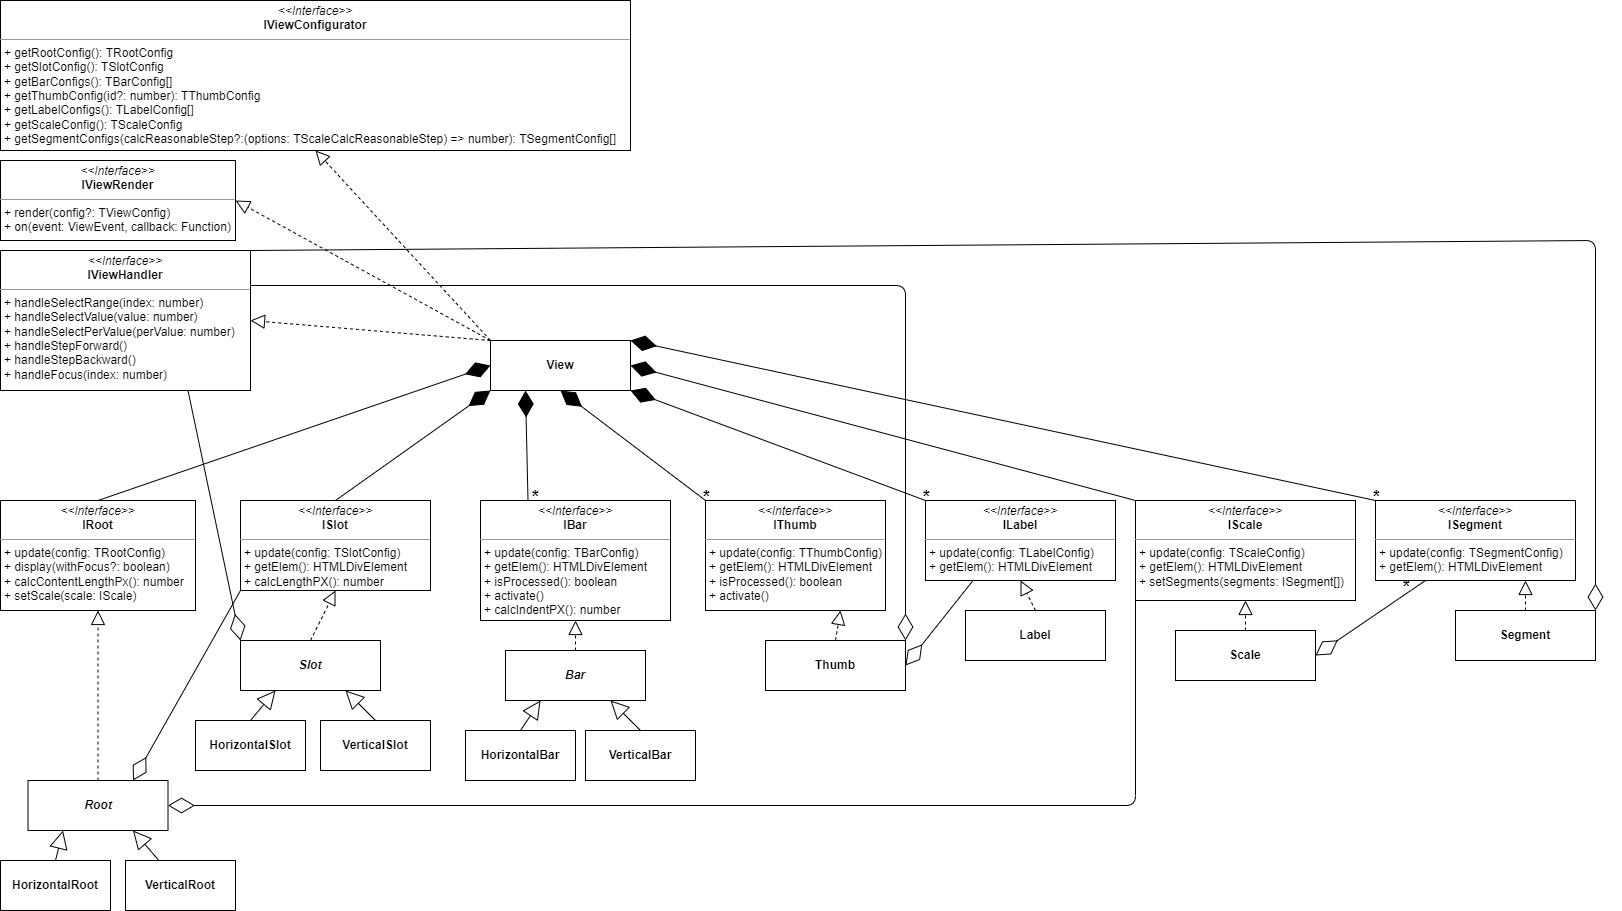
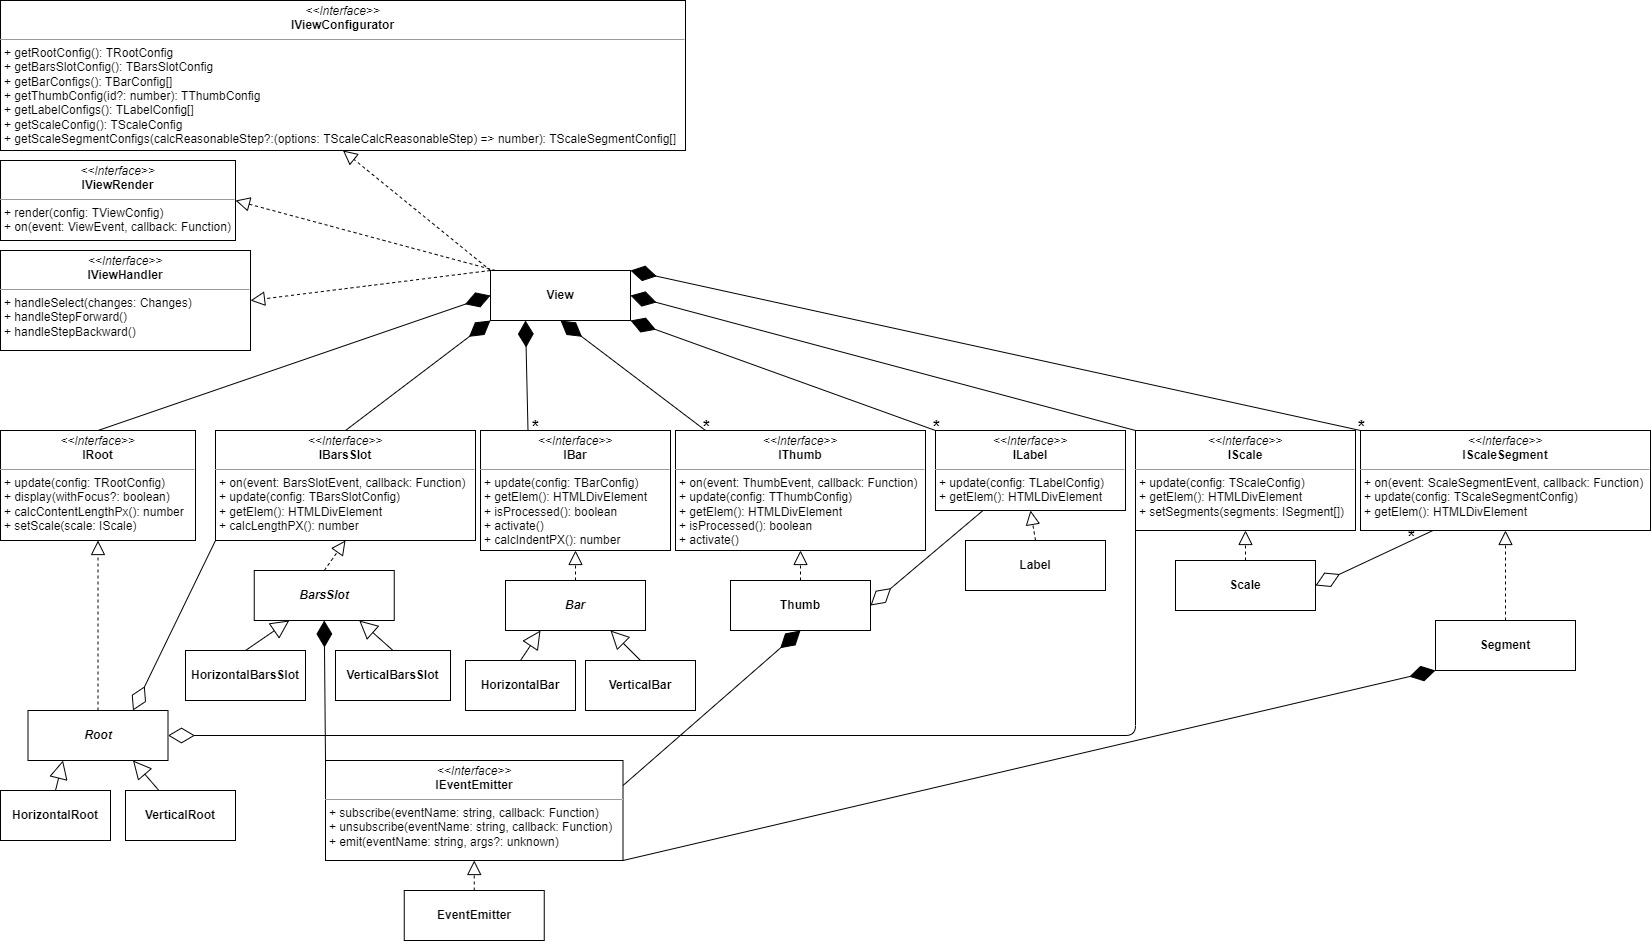
Updated readme & diagrams

diff --git a/README.md b/README.md
@@ -138,20 +138,21 @@ UML-диаграммы
 -----
 Диаграмма слоев MVP-архитектуры с Passive View:  
 ![MVP-диаграмма](https://github.com/igor-smolkov/my-jquery-slider/raw/master/diagrams/mvppv.jpg)  
-Презентер подписан на модель и, при возникновении события ее изменения, собирает из модели данные для конфигурации вью и рендерит его.  
+Презентер подписан на модель и, при возникновении событий ее инициализации или обновления, получает из модели данные и рендерит вью.  
 Презентер подписан на вью и, при возникновении его событий делегирует модели соответствующую событиям работу, используя ее публичные методы.  
 Также, для элемента к которому подключен слайдер, презентер создает глобальные события инициализации и обновления, и снабжает пользователя информацией о текущей конфигурации.  
 Вью, обрабатывая пользовательские события, испускает свои собственные, прикладывая к ним полезные для подписчиков данные.  
-Модель оповещает подписчиков о завершении перемен в ее состоянии в результате инициализации или обновления.  
-Для простого оповещения, в случае модели, или множества событий с данными, в случае со вью, модель и вью используют экземпляры одного отдельного класса, интерфейс которого позволяет реализовать функционал издателя событий.  
+Модель оповещает подписчиков о завершении инициализации или обновления и прикладывает к событиям текущие данные, включающие конфигурацию.  
+Модель и вью используют экземпляры одного отдельного класса, интерфейс которого позволяет реализовать функционал издателя событий.  
   
 Диаграмма фасада модели:  
 ![Диаграмма модели](https://github.com/igor-smolkov/my-jquery-slider/raw/master/diagrams/model.jpg)  
-Модель, опираясь на пользовательскую конфигурацию, инициализирует или обновляет слайдер, диапазоны и список, а затем собирает итоговую конфигурацию.  
+Модель, опираясь на пользовательскую конфигурацию, инициализирует или обновляет слайдер, диапазоны, список подписей и модель отображения, а затем собирает итоговую конфигурацию.  
 Слайдер получает набор диапазонов и параметры ролей и ограничений этих диапазонов, затем формирует массив последовательно-пересекающихся диапазонов из этого набора.  
 Диапазон - независимая единица этой системы, которая конфигурируется моделью и управляется слайдером.  
-Список - отдельный объект из имен соотнесенных со значениями, который настраивается моделью.  
+Список подписей - отдельный объект из имен соотнесенных со значениями, который настраивается моделью.  
 После создания списка, модель может скорректировать слайдер, если предельные значения списка не вписываются в предельные значения слайдера.  
+Модель отображения - хранит данные относящиеся к абстрактному визуальному представлению слайдера.  
   
 Диаграмма вью и сабвью:  
 ![Диаграмма вью](https://github.com/igor-smolkov/my-jquery-slider/raw/master/diagrams/view.jpg)  
@@ -160,7 +161,5 @@ UML-диаграммы
 В зависимости от ориентации вью создает экземпляры рута, слота и бара горизонтального или вертикального типа, классы которых наследуются от абстрактных.  
 Все взаимодействие с сабвью происходит через их интерфейсы.  
 Рут нужен для настройки корневого элемента. Все остальные сабвью для создания и обновления одноименных элементов слайдера.  
-Слот, палец и сегмент шкалы используют интерфейс обработки событий вью, для оповещения о пользовательском событии.  
-В процессе перемещения бегунка вью находится в необработанном состоянии и самостоятельно определят текущее значение в рамках получаемой от презентера конфигурации.  
-После подъема пользовательского указателя вью переходит в обработанное состояние и становится зависим от получаемой конфигурации в полном объеме.  
+Слот, палец и сегмент шкалы используют функционал издателя событий, для оповещения вью о пользовательском событии.  
   
